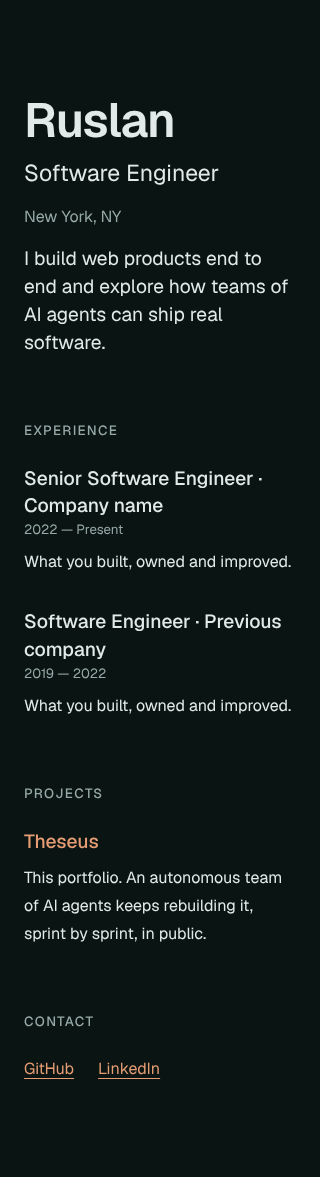
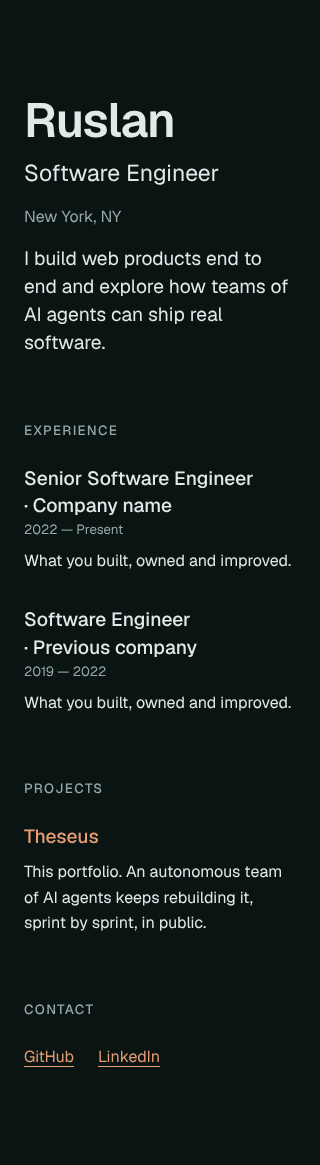
Sprint 1: Probe second verification at 9461555
Claude-Session: https://claude.ai/code/session_01AXFgJaDtMc1ri744Ux4PQc

diff --git a/.studio/sprint/1/verify-probe-2.md b/.studio/sprint/1/verify-probe-2.md
@@ -1,0 +1,45 @@
+# Probe: verification of Sprint 1 at 9461555 (second pass)
+
+Verdict: ship
+
+Head verified: `9461555f9ae70d47c43695f22d2e0903a1491e9d` on `sprint/1` (PR #9). Tree clean before my screenshots.
+Chromium: build 1194 via `PLAYWRIGHT_BROWSERS_PATH` (scratchpad `pwb`), config untouched.
+Since my first pass (4a28975) the head changed `app/globals.css` (`@import "tailwindcss" source(none)` plus `@source` for `app` and `components`) and `app/page.tsx` (`text-balance` on the two `<h3>`s, `leading-7` dropped from the two body paragraphs). `e2e/` is unchanged by the builder.
+
+## Commands
+
+- `pnpm verify`: exit 0 (lint, typecheck, knip, build; `/` and `/_not-found` static).
+- `PLAYWRIGHT_PORT=3317 pnpm test:e2e`: exit 0, 15 passed, 1 skipped. The skip is the `test.fixme` "no value the owner marked TODO(owner) renders" in `content.spec.ts`, which predates this sprint.
+
+## Checks
+
+| Check | Result | Evidence |
+|---|---|---|
+| C1 tokens exist | pass | `tokens.spec.ts` C1 passes (5 color + 5 step tokens non-empty on `:root`). |
+| C2 fluid scale | pass | Both tests pass. My own run: h1 48px at 320, 49.75px at 390, 76px at 1440 (1.58x, over 1.4x); bio over 16px. Every step token is a `clamp(rem, rem + vw, rem)`. |
+| C3 uses the tokens | pass | Browser and grep tests pass. By hand: `grep -rEn "text-(xs\|sm\|base\|lg\|xl\|[2-9]xl)\b\|foreground/[0-9]" app components` has no output. h2 is 13.33 to 13.50px (`--step-sm`); body is rgb(15,34,32) on rgb(230,243,241) in light, rgb(225,234,233) on rgb(9,20,19) in dark; all three links resolve to the accent (rgb(148,65,38) light, rgb(231,157,115) dark). |
+| C4 contrast, both schemes | pass | Test passes in light and dark. Tokens are unchanged since my first pass (fg 14.53, muted 6.15, accent 6.06 light; 15.30, 7.60, 8.45 dark). |
+| C5 dark block parity-only | pass | Grep test passes. By hand: 1 `prefers-color-scheme` match in `app/globals.css`, 0 `.dark`. Browser: body background differs light vs dark and equals `--background` in each. |
+| C6 nothing regressed | pass | Existing smoke checks (axe light and dark, 390 px overflow, reduced motion) pass unchanged, plus the 320 px overflow test. By hand: `scrollWidth == clientWidth` at 320, 390 and 1440 in both schemes. |
+
+New this head, checked because the fix round touched Tailwind scanning: the built CSS (`.next/static/chunks/*.css`) still contains `text-step-sm`, `-base`, `-lg`, `-xl`, `-2xl`, `text-muted`, `text-accent` and `text-balance`, so `source(none)` plus `@source` did not drop a utility the page uses. `git diff main -- content` is empty.
+
+## Real-browser pass (by hand, headless Chromium against `next start` on 3318, now stopped)
+
+- 320 / 390 / 1440 px x light / dark: no horizontal overflow; console clean (no errors, warnings, page errors or failed requests); Geist loads (`font-family: Geist`, one font face loaded).
+- Keyboard: Tab order is Theseus, GitHub, LinkedIn, then leaves the page. No traps. The browser's auto focus ring is visible in both schemes (`probe-390-dark-focus.png` shows the ring on LinkedIn). Focus styling is roadmap item 6, so this is a note.
+- Reduced motion: `prefers-reduced-motion: reduce` matches, 0 running animations, page renders fully.
+
+## Observation (not a contract failure)
+
+- `text-balance` on the experience `<h3>`s (the fix round) makes "Senior Software Engineer · Company name" break before the middle dot at 320 and 390 px, so the second line starts with "· Company name" (see `probe-320-light.png`, `probe-390-dark-focus.png`). It reads as a stray separator. At 1440 px the title stays on one line. Iris may want to judge it; the content is the owner's, so the fix would be in presentation (for example a non-breaking space before the dot), not in the words.
+- Same as before: `<h2>` labels (`--step-sm`) are smaller than the `<h3>` titles by contract design; dark values are only contrast and axe checked until item 2.
+
+## Screenshots (`.studio/sprint/1/shots/`, overwritten at this head)
+
+`probe-320-light.png`, `probe-320-dark.png`, `probe-390-light.png`, `probe-390-dark.png`, `probe-1440-light.png`, `probe-1440-dark.png` (full page), `probe-390-light-focus.png`, `probe-390-dark-focus.png`, `probe-1440-light-reduced-motion.png`.
+
+## Not checked
+
+- Side-by-side with production (Iris has `iris-main-vs-pr-*.png`).
+- Browsers other than Chromium.
